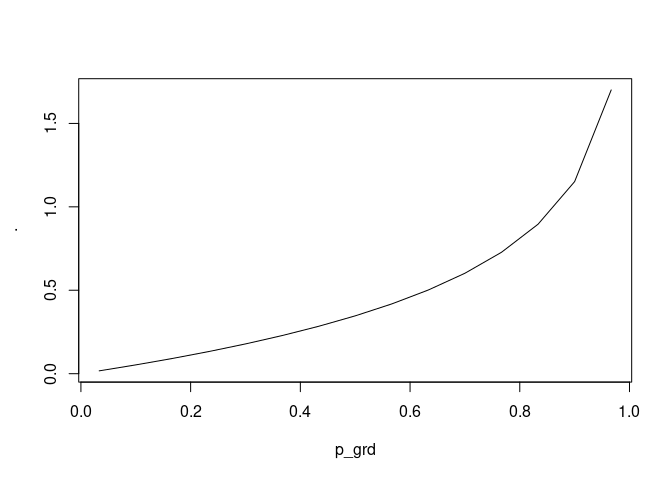
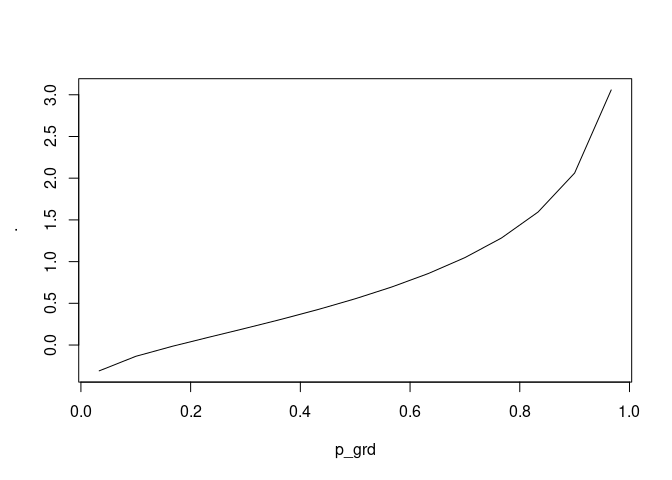
add shash and go over to qmd

diff --git a/README.md b/README.md
@@ -1,4 +1,5 @@
 
+
 <!-- README.md is generated from README.Rmd. Please edit that file -->
 
 # gilchrist <a href='https://dmi3kno.github.io/gilchrist'><img src='man/figures/logo.png' align="right" height="200" /></a>
@@ -28,15 +29,15 @@ remotes::install_packages("dmi3kno/gilchrist")
 Gilchrist (2000) list the following rules for creating new quantile
 functions out of existing ones.
 
-| Original QF       | Rule                    | Resulting QF      | Resulting variable                             |
-|-------------------|-------------------------|-------------------|------------------------------------------------|
-| $Q_Y(u)$          | Relection rule          | $-Q(1-u)$         | QF of $-Y$                                     |
-| $Q_Y(u)$          | Reciprocal rule         | $1/Q(1-u)$        | QF of $1/Y$                                    |
-| $Q_1(u),Q_2(u)$   | Addition rule           | $Q_1(u)+Q_2(u)$   | Valid QF                                       |
-| $Q_1(u),Q_2(u)$   | Linear combination rule | $aQ_1(u)+bQ_2(u)$ | Valid QF for a,b\>0                            |
-| $Q_1(u),Q_2(u)>0$ | Multiplication rule     | $Q_1(u)Q_2(u)$    | Valid QF if $Q_1(u),Q_2(u)>0$                  |
-| $Q_Y(u)$          | Q-transformation        | $T(Q_Y(u))$       | QF of $T(Y)$, for non-decreasing $T$           |
-| $Q_Y(u)$          | p-transformation        | $Q_Y(H(u))$       | p-transformed $Q_Y(u)$, for non-decreasing $H$ |
+| Original QF | Rule | Resulting QF | Resulting variable |
+|----|----|----|----|
+| $Q_Y(u)$ | Relection rule | $-Q(1-u)$ | QF of $-Y$ |
+| $Q_Y(u)$ | Reciprocal rule | $1/Q(1-u)$ | QF of $1/Y$ |
+| $Q_1(u),Q_2(u)$ | Addition rule | $Q_1(u)+Q_2(u)$ | Valid QF |
+| $Q_1(u),Q_2(u)$ | Linear combination rule | $aQ_1(u)+bQ_2(u)$ | Valid QF for a,b\>0 |
+| $Q_1(u),Q_2(u)>0$ | Multiplication rule | $Q_1(u)Q_2(u)$ | Valid QF if $Q_1(u),Q_2(u)>0$ |
+| $Q_Y(u)$ | Q-transformation | $T(Q_Y(u))$ | QF of $T(Y)$, for non-decreasing $T$ |
+| $Q_Y(u)$ | p-transformation | $Q_Y(H(u))$ | p-transformed $Q_Y(u)$, for non-decreasing $H$ |
 
 ## Example
 
@@ -70,10 +71,11 @@ function, so we can inspect it.
 
 ``` r
 s_exp
-#> function(u, ...){
-#>   -log(1-u)
+#> function (u, ...) 
+#> {
+#>     -log(1 - u)
 #> }
-#> <bytecode: 0x55eb63abc408>
+#> <bytecode: 0x5dc70db3f158>
 #> <environment: namespace:gilchrist>
 ```
 
@@ -216,7 +218,8 @@ qrexp <- s_exp %>%
 qrexp(p_grd) %>% plot(p_grd,., type="l")
 ```
 
-<img src="man/figures/README-unnamed-chunk-8-1.png" width="100%" />
+<img src="man/figures/README-unnamed-chunk-11-1.png"
+style="width:100.0%" />
 
 ### Reciprocation
 
@@ -230,7 +233,8 @@ qrecunif <- s_unif %>%
 qrecunif(p_grd) %>% plot(p_grd,., type="l")
 ```
 
-<img src="man/figures/README-unnamed-chunk-9-1.png" width="100%" />
+<img src="man/figures/README-unnamed-chunk-12-1.png"
+style="width:100.0%" />
 
 ### Addition
 
@@ -245,7 +249,8 @@ qlogistic <- s_exp %>%
 qlogistic(p_grd) %>% plot(p_grd,., type="l")
 ```
 
-<img src="man/figures/README-unnamed-chunk-10-1.png" width="100%" />
+<img src="man/figures/README-unnamed-chunk-13-1.png"
+style="width:100.0%" />
 
 ### Linear combination
 
@@ -264,7 +269,8 @@ qskewlogis <- s_exp %>%
 qskewlogis(p_grd, delta=0.9) %>% plot(p_grd,., type="l")
 ```
 
-<img src="man/figures/README-unnamed-chunk-11-1.png" width="100%" />
+<img src="man/figures/README-unnamed-chunk-14-1.png"
+style="width:100.0%" />
 
 The twin function `qff_cmix` swaps the weights: $1-\delta$ to the first
 function and $\delta$ to the second function.
@@ -282,7 +288,8 @@ qhcsexp <- s_halfcosine %>%
 qhcsexp(p_grd) %>% plot(p_grd,., type="l")
 ```
 
-<img src="man/figures/README-unnamed-chunk-12-1.png" width="100%" />
+<img src="man/figures/README-unnamed-chunk-15-1.png"
+style="width:100.0%" />
 
 ### Shift and scale
 
@@ -296,7 +303,8 @@ q_shiftedexp <- s_exp %>% qff_shift("mu")
 q_shiftedexp(p_grd, mu=2) %>% plot(p_grd,., type="l")
 ```
 
-<img src="man/figures/README-unnamed-chunk-13-1.png" width="100%" />
+<img src="man/figures/README-unnamed-chunk-16-1.png"
+style="width:100.0%" />
 
 The quantile function factory `qff_scale` implement the “multiplication
 rule” but for parameters: it can add a scale parameter to the QF,
@@ -309,7 +317,8 @@ qexp1 <- s_exp %>%
 qexp1(p_grd, lambda=2) %>% plot(p_grd,., type="l")
 ```
 
-<img src="man/figures/README-unnamed-chunk-14-1.png" width="100%" />
+<img src="man/figures/README-unnamed-chunk-17-1.png"
+style="width:100.0%" />
 
 Finally, `qff_decorate` adds both location and scale to a quantile
 function.
@@ -347,7 +356,8 @@ qweibull1(p_grd, lambda=2, k=3) %>%
   plot(p_grd,., type="l")
 ```
 
-<img src="man/figures/README-unnamed-chunk-16-1.png" width="100%" />
+<img src="man/figures/README-unnamed-chunk-19-1.png"
+style="width:100.0%" />
 
 The analogous function exists for p-transforming the quantile function,
 i.e. raising the depth $u$ to the power $.pow$ (or its inverse).
@@ -414,7 +424,8 @@ qeik(p_grd, alpha=4,beta=5, lambda=6) %>%
   plot(p_grd,.,type="l")
 ```
 
-<img src="man/figures/README-unnamed-chunk-18-1.png" width="100%" />
+<img src="man/figures/README-unnamed-chunk-21-1.png"
+style="width:100.0%" />
 
 ### Exponentiation
 
@@ -464,7 +475,31 @@ qf_KMweibull(p_grd, lambda=3, k=4)%>%
   plot(p_grd,., type="l")
 ```
 
-<img src="man/figures/README-unnamed-chunk-20-1.png" width="100%" />
+<img src="man/figures/README-unnamed-chunk-23-1.png"
+style="width:100.0%" />
+
+### SHASH-transformation
+
+SHASH (sinh-asinh) q-transformation is used in Johnson SU distribution
+and was further developed by Rigby and Stasinopoulos (2005) and Jones
+and Pewsey (2009). The transformation has the form
+
+$$
+T(u)=\sinh\left[\frac{1}{\delta}\{\text{asinh}(Q(u))-\epsilon\}\right]
+$$
+
+Here’s for example SHASH-normal distribution
+
+``` r
+qshashnorm <- s_norm %>%
+  qtr_shash(nm_tail="delta", nm_asymm="epsilon")
+
+qs <- qshashnorm(p_grd, delta=2, epsilon=2)
+plot(p_grd, qs, type="l")
+```
+
+<img src="man/figures/README-unnamed-chunk-24-1.png"
+style="width:100.0%" />
 
 ### $\varepsilon$-transformation
 
@@ -496,7 +531,10 @@ qs <- qupareto(p_grd, 3, 0.1)
 plot(p_grd, qs, type="l")
 ```
 
-<img src="man/figures/README-unnamed-chunk-22-1.png" width="100%" />
+<img src="man/figures/README-unnamed-chunk-26-1.png"
+style="width:100.0%" />
+
+### DUS-transformation
 
 Finally, we can apply the DUS-transformation proposed by Kumar, Singh,
 and Singh (2015)
@@ -517,7 +555,8 @@ plot(p_grd, qs, type="l")
 lines(p_grd, qexp(p_grd, 0.5), col=2)
 ```
 
-<img src="man/figures/README-unnamed-chunk-23-1.png" width="100%" />
+<img src="man/figures/README-unnamed-chunk-27-1.png"
+style="width:100.0%" />
 
 ### Modi-transformation
 
@@ -564,7 +603,8 @@ qmuhammad <- s_unif %>%
 qmuhammad(runif(1e3), theta=2, beta=7, alpha=0.7) %>% hist(50)
 ```
 
-<img src="man/figures/README-unnamed-chunk-25-1.png" width="100%" />
+<img src="man/figures/README-unnamed-chunk-29-1.png"
+style="width:100.0%" />
 
 Fréchet is Reciprocate transform of Weibull. Weibull is power transform
 of Exponential.
@@ -582,13 +622,15 @@ qfrechet <- s_exp %>%
 qfrechet(p_grd, m=0, s=1, alpha=5)%>%plot(p_grd, ., type="l")
 ```
 
-<img src="man/figures/README-unnamed-chunk-26-1.png" width="100%" />
+<img src="man/figures/README-unnamed-chunk-30-1.png"
+style="width:100.0%" />
 
 What other cool transformations do you know? Please let me know!
 
 ## References
 
-<div id="refs" class="references csl-bib-body hanging-indent">
+<div id="refs" class="references csl-bib-body hanging-indent"
+entry-spacing="0">
 
 <div id="ref-bakouch2023UnitExponentialProbability" class="csl-entry">
 
@@ -625,6 +667,13 @@ Functions*. Boca Raton: Chapman & Hall/CRC.
 
 </div>
 
+<div id="ref-jones2009SinharcsinhDistributions" class="csl-entry">
+
+Jones, M. C., and Arthur Pewsey. 2009. “Sinh-Arcsinh Distributions.”
+*Biometrika* 96 (4): 761–80. <https://doi.org/10.1093/biomet/asp053>.
+
+</div>
+
 <div id="ref-kavya2021ParsimoniousModelsLifetimes" class="csl-entry">
 
 Kavya, P., and M. Manoharan. 2021. “Some Parsimonious Models for
@@ -657,6 +706,15 @@ Reddy, M Rami, B Srinivasa Rao, and K Rosaiah. 2024. “Acceptance
 Sampling Plans Based on Percentiles of Exponentiated Inverse Kumaraswamy
 Distribution.” *Indian Journal Of Science And Technology* 17 (16):
 1681–89. <https://doi.org/10.17485/IJST/v17i16.222>.
+
+</div>
+
+<div id="ref-rigby2005GeneralizedAdditiveModels" class="csl-entry">
+
+Rigby, R. A., and D. M. Stasinopoulos. 2005. “Generalized Additive
+Models for Location, Scale and Shape.” *Journal of the Royal Statistical
+Society: Series C (Applied Statistics)* 54 (3): 507–54.
+<https://doi.org/10.1111/j.1467-9876.2005.00510.x>.
 
 </div>
 
